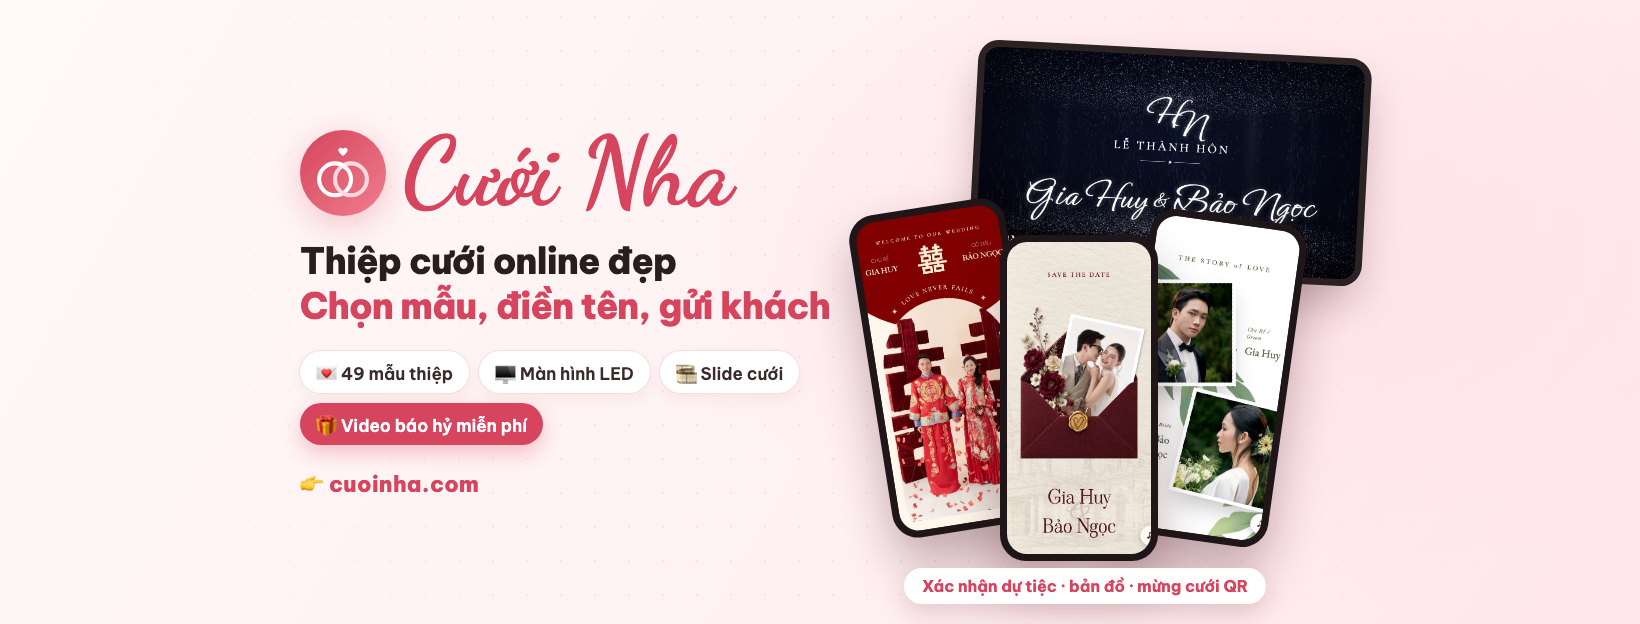
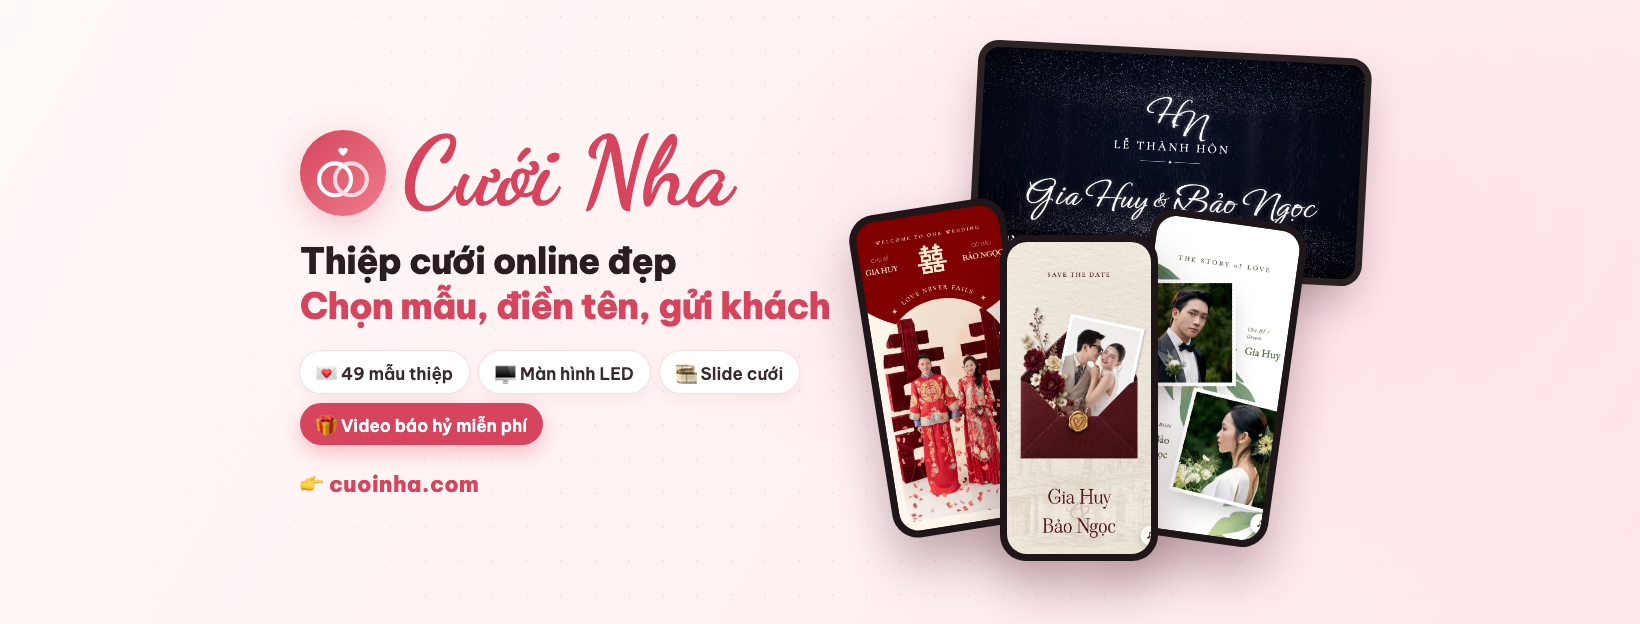
Ảnh bìa Facebook: bỏ dòng ở đáy (Facebook phủ lớp tối + nút Chỉnh sửa che mất)

Changed region(s): [[0.5287, 0.883, 0.7774, 0.9744]]

diff --git a/public/mock-fb-cover.html b/public/mock-fb-cover.html
@@ -4,7 +4,7 @@
 <title>Ảnh bìa Facebook — Cưới Nha (1640×624)</title>
 <link rel="stylesheet" href="https://fonts.googleapis.com/css2?family=Be+Vietnam+Pro:wght@500;600;700;800&family=Dancing+Script:wght@700&display=block">
 <style>
-/* Ảnh bìa trang Facebook 1640×624. Máy tính hiện đủ; điện thoại cắt hai bên còn ~1110px giữa (x 265 → 1375) → chữ và mẫu nằm gọn trong vùng đó */
+/* Ảnh bìa trang Facebook 1640×624. Facebook phủ lớp tối ~80px dưới cùng (+ nút Chỉnh sửa ảnh bìa) → không đặt chữ ở đáy. Máy tính hiện đủ; điện thoại cắt hai bên còn ~1110px giữa (x 265 → 1375) → chữ và mẫu nằm gọn trong vùng đó */
 *{box-sizing:border-box}
 html,body{margin:0}
 body{width:1640px;height:624px;overflow:hidden;font-family:'Be Vietnam Pro',sans-serif}
@@ -51,7 +51,6 @@ h1 em{font-style:normal;color:#d6455d}
     <div class="ph p1"><img src="/demo/cover-songhy-do.jpg" alt=""></div>
     <div class="ph p2"><img src="/demo/cover-dodam-do-ruou.jpg" alt=""></div>
     <div class="ph p3"><img src="/demo/cover-thanhdiep-xanh-la.jpg" alt=""></div>
-    <div class="tag">Xác nhận dự tiệc · bản đồ · mừng cưới QR</div>
   </div>
 </div>
 </body></html>
